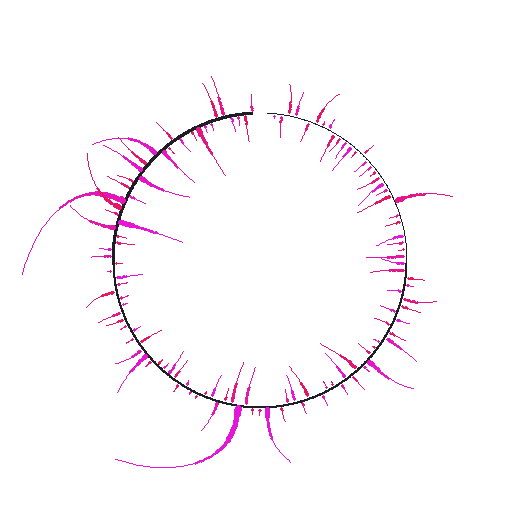
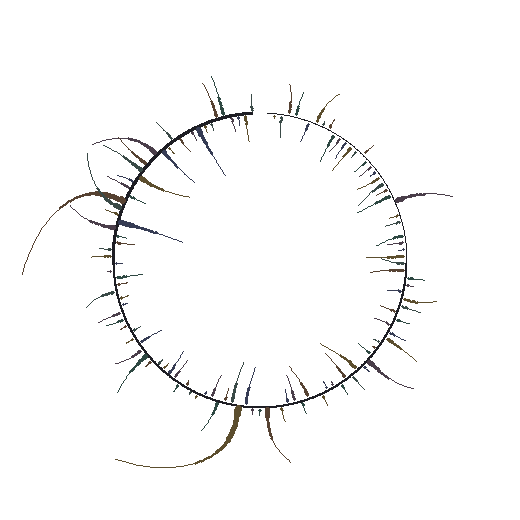
Gallery: swap colourways — gravity now muted, Daria now semantic (re-rendered)
Claude-Session: https://claude.ai/code/session_019SA9tTx9JUW8atx3a4hjPQ

diff --git a/index.html b/index.html
@@ -225,8 +225,8 @@
       <div class="grid">
         <div class="card"><div class="glow"><img src="assets/g1.png" alt="signed glyph"></div><div class="lab">Signed · Word</div><div class="txt">&ldquo;love&rdquo;</div></div>
         <div class="card"><div class="glow"><img src="assets/g2.png" alt="magnitude glyph"></div><div class="lab">Magnitude · Sentence</div><div class="txt">&ldquo;The best thing to hold onto in life is each other.&rdquo;</div></div>
-        <div class="card"><div class="glow"><img src="assets/g3.png" alt="semantic glyph"></div><div class="lab">Semantic · Word</div><div class="txt">&ldquo;gravity&rdquo;</div></div>
-        <div class="card"><div class="glow"><img src="assets/g4.png" alt="muted glyph"></div><div class="lab">Muted · Sentence</div><div class="txt">&ldquo;Daria brings warmth to every room she walks into.&rdquo;</div></div>
+        <div class="card"><div class="glow"><img src="assets/g3.png" alt="semantic glyph"></div><div class="lab">Muted · Word</div><div class="txt">&ldquo;gravity&rdquo;</div></div>
+        <div class="card"><div class="glow"><img src="assets/g4.png" alt="muted glyph"></div><div class="lab">Semantic · Sentence</div><div class="txt">&ldquo;Daria brings warmth to every room she walks into.&rdquo;</div></div>
         <div class="card"><div class="glow"><img src="assets/g5.png" alt="signed glyph of a paragraph"></div><div class="lab">Signed · Paragraph</div><div class="txt">&ldquo;Quantum entanglement is a physical phenomenon where the state of each particle cannot be described independently of the others, even across a vast distance.&rdquo;</div></div>
         <div class="card"><div class="glow"><img src="assets/g6.png" alt="semantic glyph of a phrase"></div><div class="lab">Semantic · Phrase</div><div class="txt">&ldquo;Creativity is contagious, pass it on.&rdquo;</div></div>
       </div>
